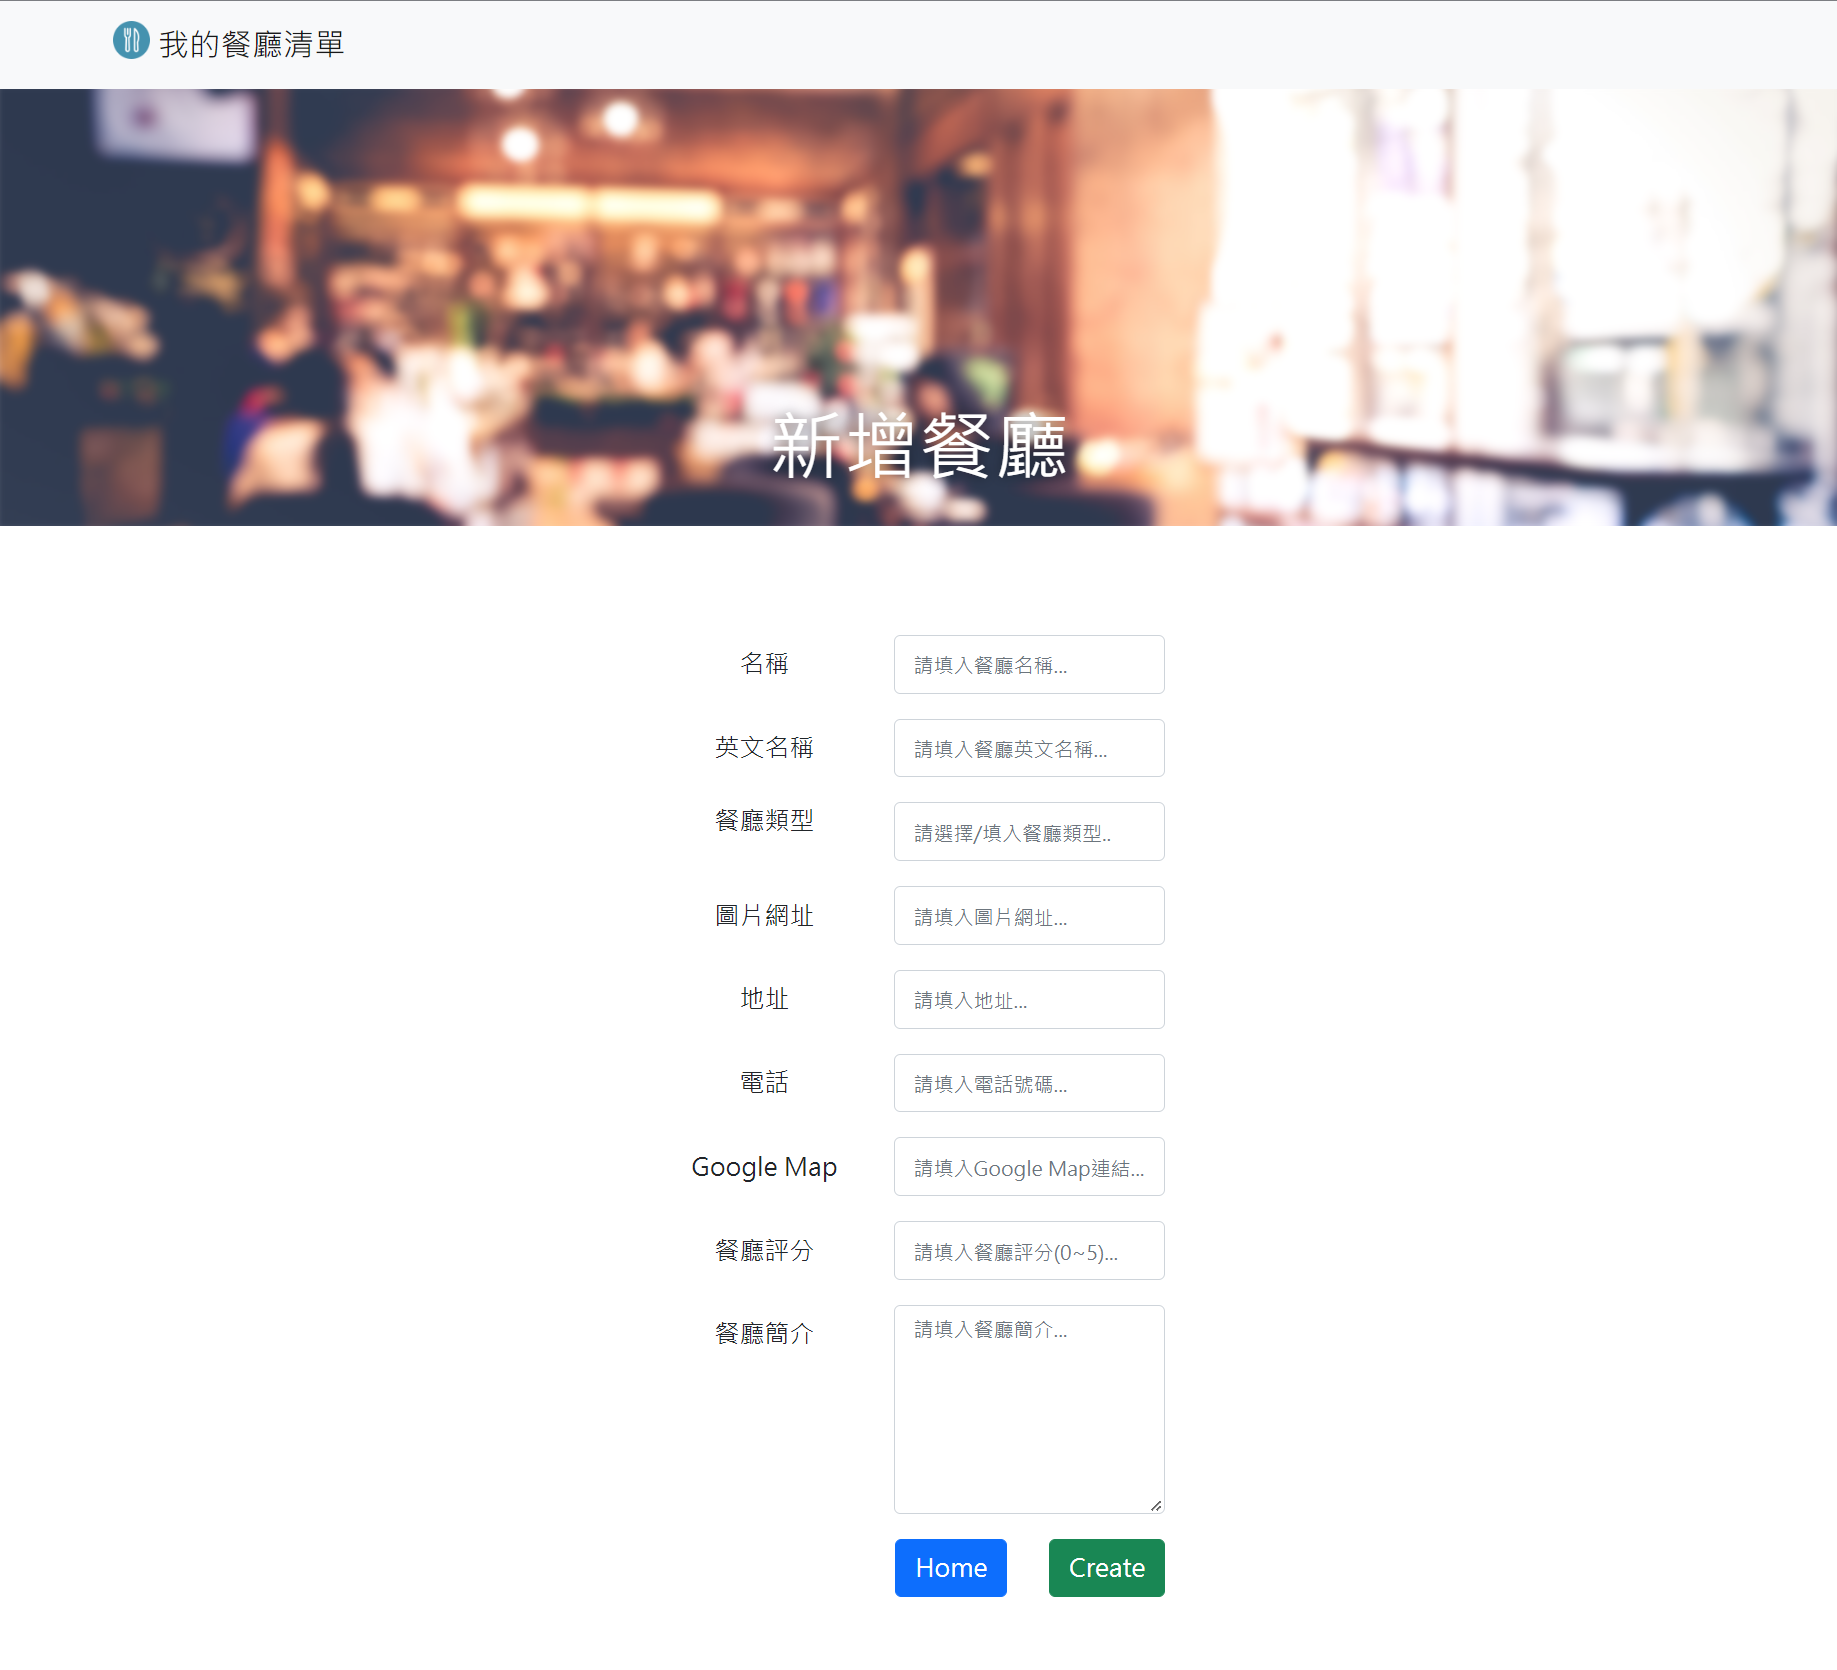
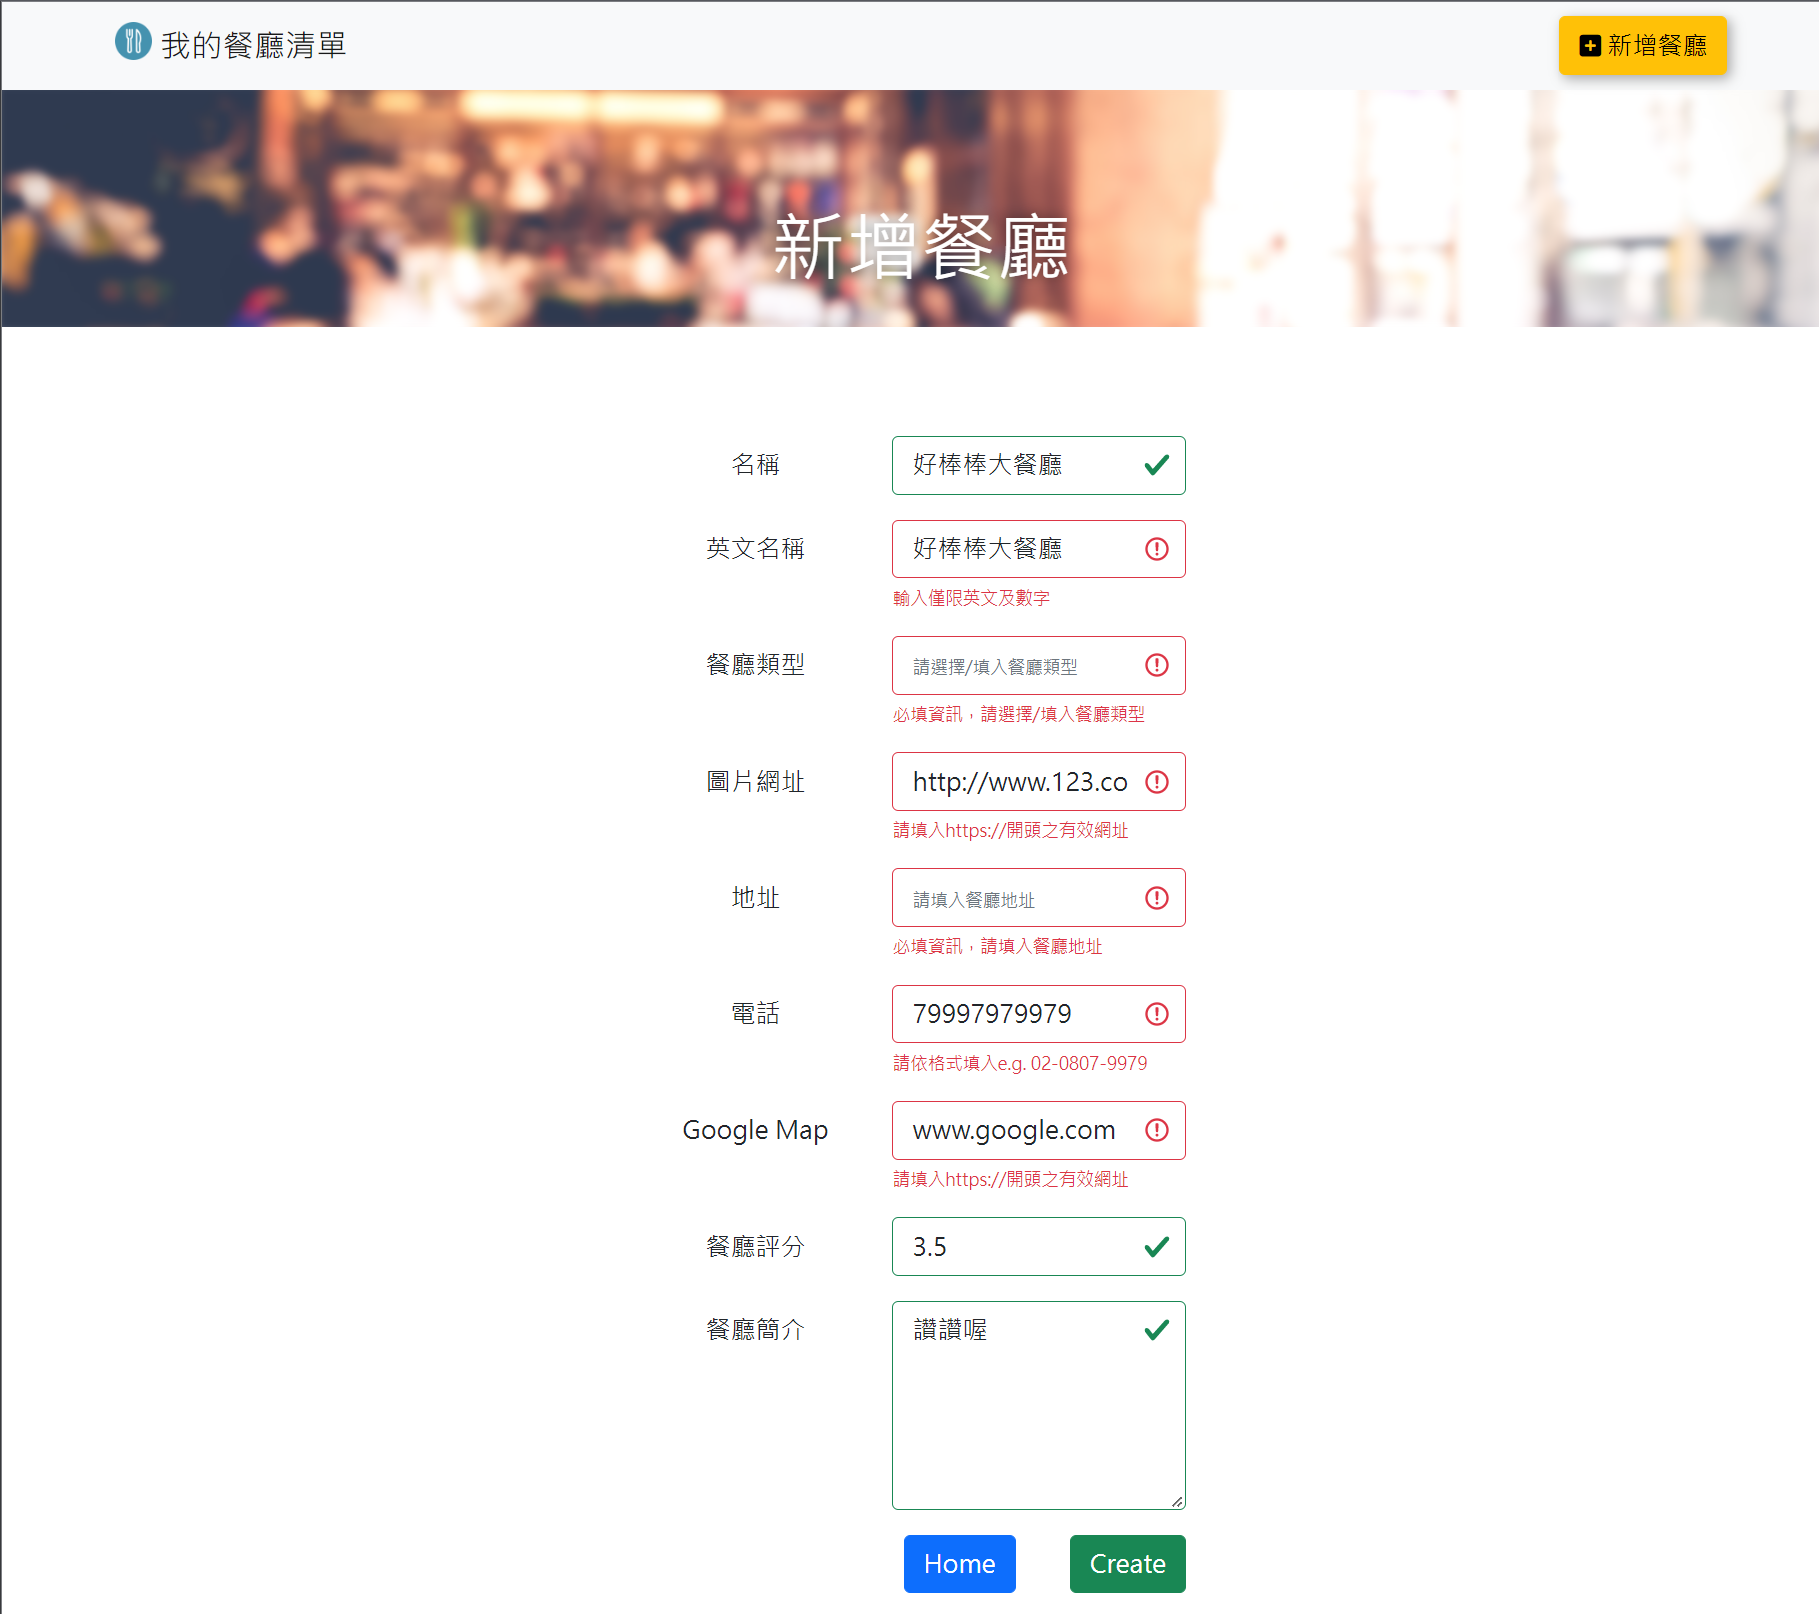
[edit] README

diff --git a/README.md b/README.md
@@ -11,7 +11,7 @@
 + 可在首頁看到附有簡易資訊(店名、餐廳類型、評分)的餐廳清單列表。
 + 點擊餐廳可檢視詳細資訊(店名、餐廳類型、地址、地圖資訊-via google map、電話、簡介)。
 + 可透過店名及餐廳類型進行關鍵字搜尋。
-+ 可新增餐廳。
++ 可新增餐廳(包含資料驗證)。
 + 可編輯餐廳內容。
 + 可刪除餐廳。
 + 可依店名(升降冪)、類型、地區排序。
